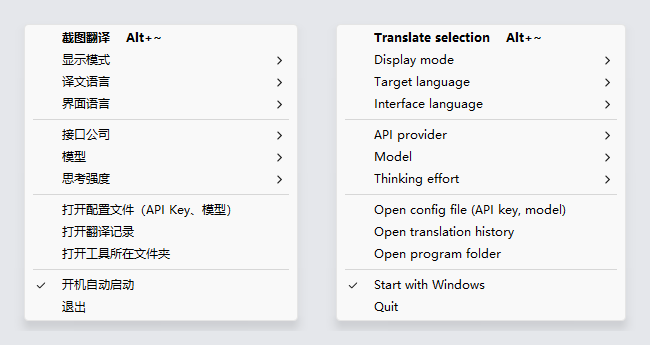
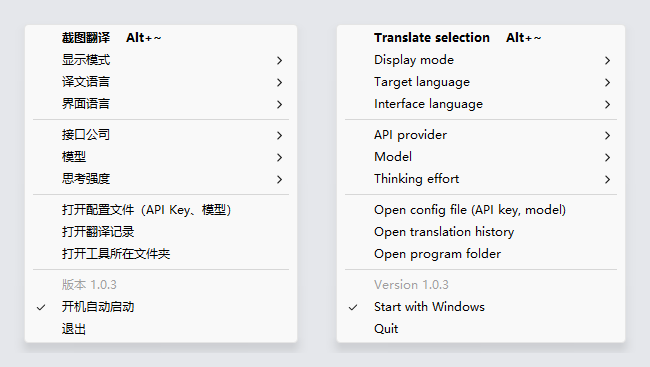
Show the version in the tray menu; add an issue template
There were three releases and nothing in the program said which one was
running, so a bug report could not name its version.

- The version is written once, in settings.py, and shown as a grey line in
  the tray menu and in the first log line. tools/build_portable.py reads it
  from there instead of carrying its own copy.
- .github/ISSUE_TEMPLATE/bug_report.yml asks for what a report needs:
  what happened (with screenshots), version, API provider, model and
  effort, Windows version and scaling, and the log tail. It says in both
  languages not to paste an API key.
- README: where to find the version; tray pictures retaken with the new line.

diff --git a/i18n.py b/i18n.py
@@ -113,6 +113,7 @@ STRINGS = {
     "打开配置文件（API Key、模型）": {"zh-tw": "開啟設定檔（API Key、模型）", "en": "Open config file (API key, model)", "ja": "設定ファイルを開く（API キー・モデル）", "ko": "설정 파일 열기(API 키, 모델)"},
     "打开翻译记录": {"zh-tw": "開啟翻譯記錄", "en": "Open translation history", "ja": "翻訳履歴を開く", "ko": "번역 기록 열기"},
     "打开工具所在文件夹": {"zh-tw": "開啟工具所在資料夾", "en": "Open program folder", "ja": "プログラムのフォルダーを開く", "ko": "프로그램 폴더 열기"},
+    "版本 {version}": {"zh-tw": "版本 {version}", "en": "Version {version}", "ja": "バージョン {version}", "ko": "버전 {version}"},
     "开机自动启动": {"zh-tw": "開機自動啟動", "en": "Start with Windows", "ja": "Windows 起動時に実行", "ko": "Windows 시작 시 실행"},
     "退出": {"zh-tw": "結束", "en": "Quit", "ja": "終了", "ko": "종료"},
     "还没有翻译记录": {"zh-tw": "還沒有翻譯記錄", "en": "No translation history yet", "ja": "翻訳履歴はまだありません", "ko": "아직 번역 기록이 없습니다"},

diff --git a/fanyi.py b/fanyi.py
@@ -800,7 +800,7 @@ class App:
             self.root.after(800, lambda: self.show_error(problem, open_config=True,
                                                          title=t("截图翻译 · 需要设置 API Key")))
         self.root.after(30, self._poll)
-        log.info("Started: model %s, mode %s, hotkeys %s", self.cfg.model, self.mode, self.labels)
+        log.info("Started: version %s, model %s, mode %s, hotkeys %s", settings.VERSION, self.cfg.model, self.mode, self.labels)
         self.root.mainloop()
 
     def quit(self):
@@ -914,6 +914,7 @@ class App:
             item(lambda it: t("打开翻译记录"), act("open_history")),
             item(lambda it: t("打开工具所在文件夹"), act("open_folder")),
             pystray.Menu.SEPARATOR,
+            item(lambda it: t("版本 {version}", version=settings.VERSION), lambda icon, it: None, enabled=False),
             item(lambda it: t("开机自动启动"), act("autostart"), checked=lambda it: autostart.is_enabled()),
             item(lambda it: t("退出"), act("quit")),
         )

diff --git a/tools/build_portable.py b/tools/build_portable.py
@@ -9,6 +9,7 @@ bytecode writing off, and any __pycache__ is removed before zipping (.pyc files 
 """
 import hashlib
 import os
+import re
 import shutil
 import subprocess
 import sys
@@ -16,7 +17,6 @@ import urllib.request
 import zipfile
 from pathlib import Path
 
-VERSION = "1.0.2"
 PYVER = "3.14.7"
 EMBED_NAME = f"python-{PYVER}-embed-amd64.zip"
[1 lines of base64/hex data omitted]
@@ -24,6 +24,8 @@ EMBED_URLS = (f"https://www.python.org/ftp/python/{PYVER}/{EMBED_NAME}",
               f"https://registry.npmmirror.com/-/binary/python/{PYVER}/{EMBED_NAME}")  # mirror; verified by the hash above
 
 REPO = Path(__file__).resolve().parent.parent
+# the version is written in one place, settings.py, where the program shows it from
+VERSION = re.search(r'^VERSION = "([^"]+)"', (REPO / "settings.py").read_text(encoding="utf-8"), re.M).group(1)
 DIST = REPO.parent / "dist"
 OUT = DIST / f"Metaphrasis-{VERSION}-win64"
 PY = OUT / "python"

diff --git a/settings.py b/settings.py
@@ -13,6 +13,7 @@ import i18n
 import redact
 from i18n import t
 
+VERSION = "1.0.3"  # shown in the tray menu; tools/build_portable.py names the zip after it
 APP_DIR = Path(__file__).resolve().parent
 CONFIG_PATH = APP_DIR / "config.ini"
 HISTORY_PATH = APP_DIR / "翻译记录.txt"

diff --git a/README.md b/README.md
@@ -141,6 +141,8 @@ Can't connect: if you need a proxy, set `proxy` in `config.ini`, for example `ht
 
 Key expired: keys created in the Claude Console expire after 30 days by default, pick Never when creating one. To put in a new key, right-click the tray icon, **API provider** → **Change API key…**; no restart needed.
 
+Which version am I running: right-click the tray icon; it is the grey line near the bottom of the menu.
+
 The program is gone: if there is no tray icon, double-click `start.bat` again. If something else killed it, `guard.pyw` brings it back within a few seconds.
 
 ## Limitations
